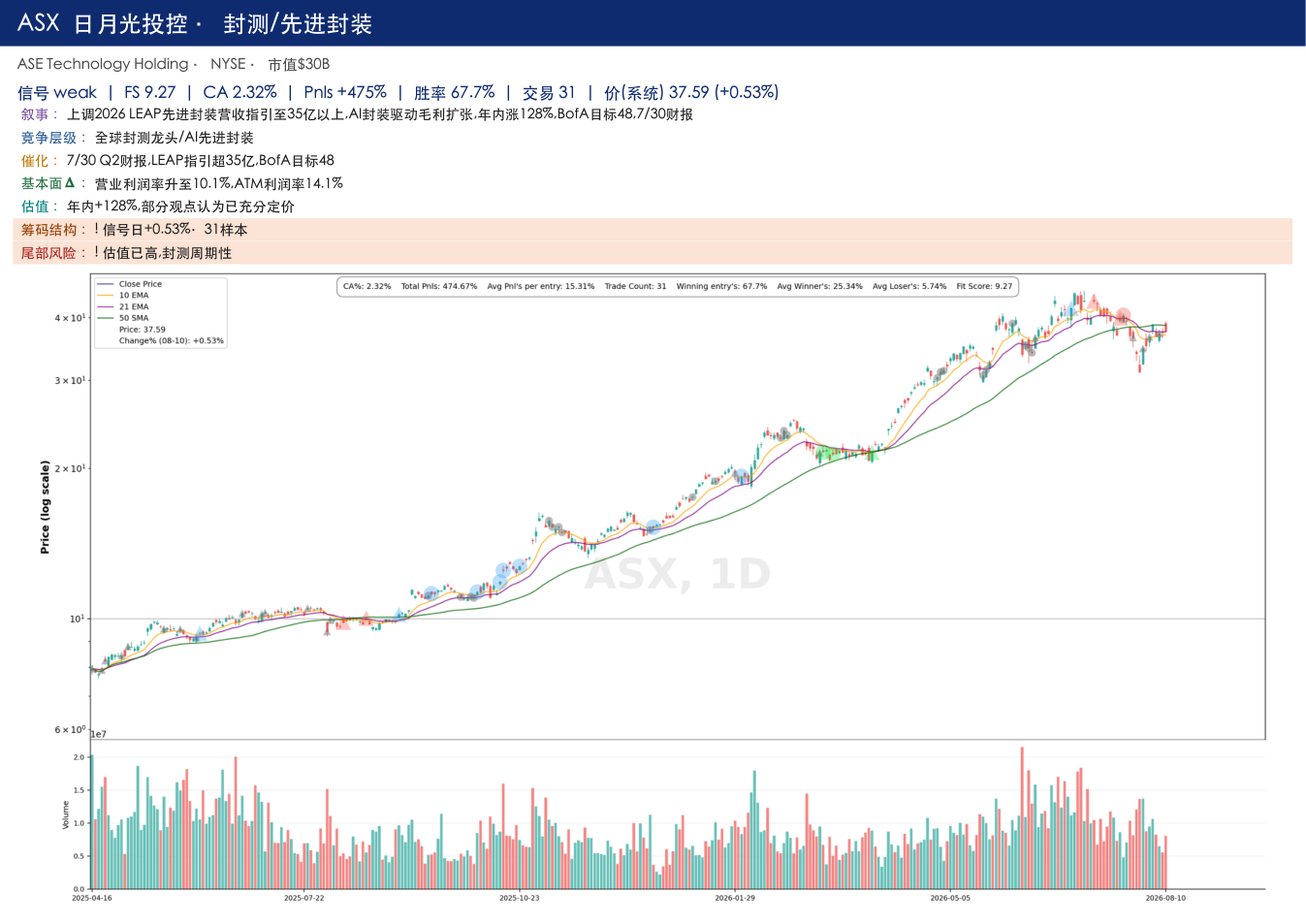
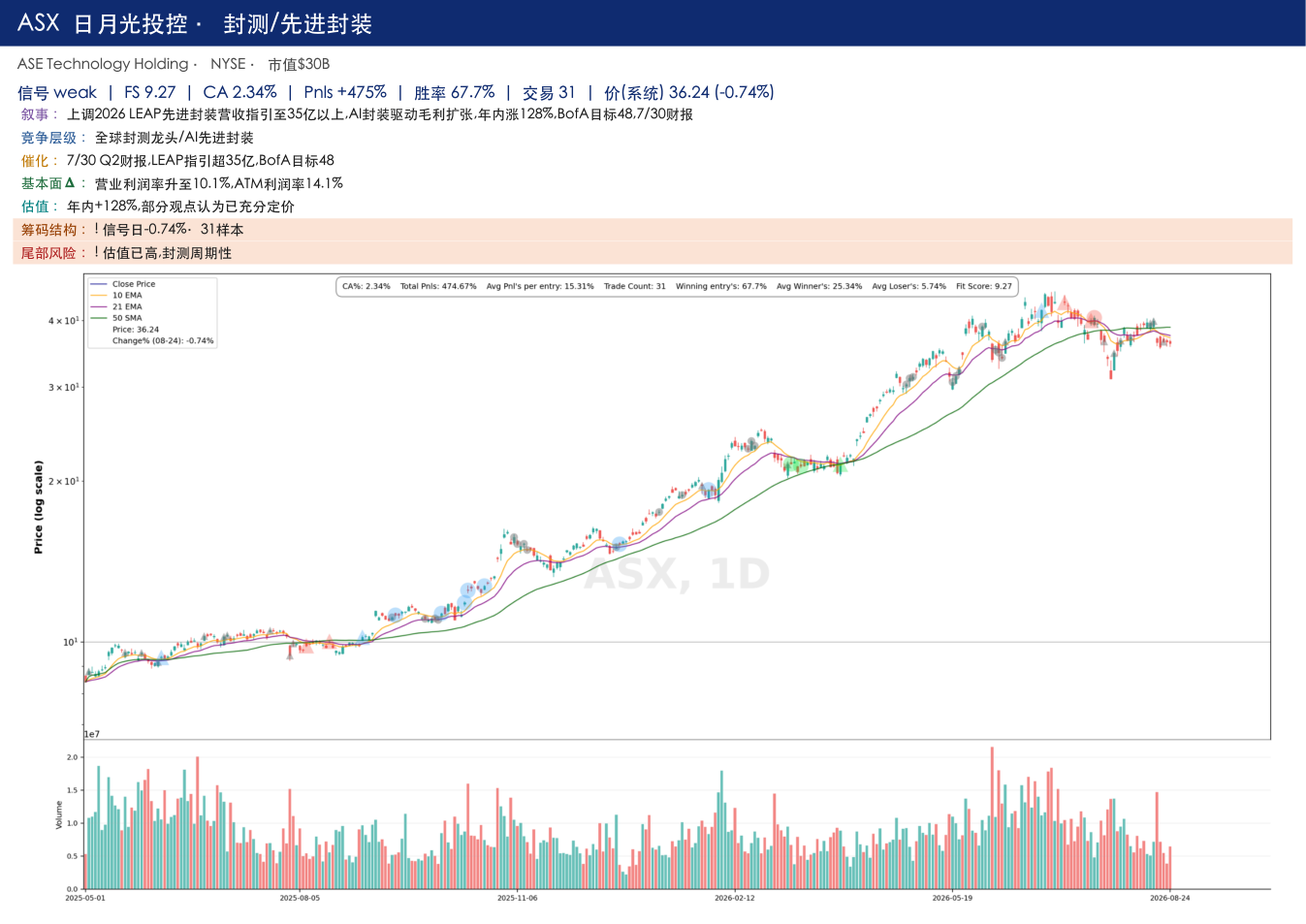
修复美股弱信号明细图

diff --git a/docs/bogo.html b/docs/bogo.html
@@ -61,59 +61,59 @@ a{color:inherit}
 信号日 08-21 · Fit 1.50 · 胜率 58.6% · CA 2.39% · Pnls +34% · 当日 -0.82% · <a href="https://www.tradingview.com/chart/?symbol=AMEX%3AURA" target="_blank">TV↗</a>
 主题ETF：<a href="etf.html#URA"><b>URA</b></a>（标的本身） 5日 +1.0% · 21日 +14.5% · 63日 -6.7% · 转强 / 近20日高</pre><img loading="lazy" src="bogo/URA.png"></div><div class="blk"><pre><b>NASDAQ:LITE</b> Lument · AI数据中心光器件·C
 信号日 08-20 · Fit 15.04 · 胜率 67.9% · CA 4.18% · Pnls +1602% · 当日 -4.22% · <a href="https://www.tradingview.com/chart/?symbol=NASDAQ%3ALITE" target="_blank">TV↗</a>
-主题ETF：<a href="etf.html#AIQ"><b>AIQ</b></a>（近似代理） 5日 -2.7% · 21日 +7.5% · 63日 -0.8% · 弱势 / 回撤中；<a href="etf.html#SMH"><b>SMH</b></a>（近似代理） 5日 -8.0% · 21日 -2.6% · 63日 -5.1% · 弱势 / 回撤中</pre></div><div class="blk"><pre><b>NASDAQ:UK100</b> 英国富时10 · 英国大盘·价值股·大宗
+主题ETF：<a href="etf.html#AIQ"><b>AIQ</b></a>（近似代理） 5日 -2.7% · 21日 +7.5% · 63日 -0.8% · 弱势 / 回撤中；<a href="etf.html#SMH"><b>SMH</b></a>（近似代理） 5日 -8.0% · 21日 -2.6% · 63日 -5.1% · 弱势 / 回撤中</pre><img loading="lazy" src="bogo/LITE.png"></div><div class="blk"><pre><b>NASDAQ:UK100</b> 英国富时10 · 英国大盘·价值股·大宗
 信号日 08-20 · Fit 6.33 · 胜率 80.4% · CA 0.54% · Pnls +75% · 当日 +0.44% · <a href="https://www.tradingview.com/chart/?symbol=NASDAQ%3AUK100" target="_blank">TV↗</a>
-主题ETF：<span class="etf-miss">未映射</span></pre></div><div class="blk"><pre><b>NASDAQ:HTI1!</b> 恒生科技指数 · 指数期货·港股科技be
+主题ETF：<span class="etf-miss">未映射</span></pre><img loading="lazy" src="bogo/UK100.png"></div><div class="blk"><pre><b>NASDAQ:HTI1!</b> 恒生科技指数 · 指数期货·港股科技be
 信号日 08-20 · Fit 1.41 · 胜率 44.4% · CA 1.37% · Pnls +40% · 当日 +0.35% · <a href="https://www.tradingview.com/chart/?symbol=NASDAQ%3AHTI1!" target="_blank">TV↗</a>
-主题ETF：<span class="etf-miss">未映射</span></pre></div><div class="blk"><pre><b>NYSE:DELL</b> 戴尔/Del · AI服务器·企业IT
+主题ETF：<span class="etf-miss">未映射</span></pre><img loading="lazy" src="bogo/HTI1!.png"></div><div class="blk"><pre><b>NYSE:DELL</b> 戴尔/Del · AI服务器·企业IT
 信号日 08-24 · Fit 19.92 · 胜率 86.4% · CA 2.74% · Pnls +318% · 当日 -2.01% · <a href="https://www.tradingview.com/chart/?symbol=NYSE%3ADELL" target="_blank">TV↗</a>
-主题ETF：<span class="etf-miss">未映射</span></pre></div><div class="blk"><pre><b>NASDAQ:FESB1!</b> 欧洲银行股期 · 欧洲银行
+主题ETF：<span class="etf-miss">未映射</span></pre><img loading="lazy" src="bogo/DELL.png"></div><div class="blk"><pre><b>NASDAQ:FESB1!</b> 欧洲银行股期 · 欧洲银行
 信号日 08-24 · Fit 6.77 · 胜率 75.0% · CA 1.12% · Pnls +148% · 当日 +0.67% · <a href="https://www.tradingview.com/chart/?symbol=NASDAQ%3AFESB1!" target="_blank">TV↗</a>
-主题ETF：<a href="etf.html#XLF"><b>XLF</b></a>（主题代理） 5日 +1.1% · 21日 +3.4% · 63日 +12.5% · 多头 / 近20日高；<a href="etf.html#KBE"><b>KBE</b></a>（主题代理） 5日 -3.2% · 21日 -0.8% · 63日 +8.8% · 弱势 / 回撤中</pre></div><div class="blk"><pre><b>NYSE:ATI</b> ATI特种合 · 航空航天特种材料·钛合
+主题ETF：<a href="etf.html#XLF"><b>XLF</b></a>（主题代理） 5日 +1.1% · 21日 +3.4% · 63日 +12.5% · 多头 / 近20日高；<a href="etf.html#KBE"><b>KBE</b></a>（主题代理） 5日 -3.2% · 21日 -0.8% · 63日 +8.8% · 弱势 / 回撤中</pre><img loading="lazy" src="bogo/FESB1!.png"></div><div class="blk"><pre><b>NYSE:ATI</b> ATI特种合 · 航空航天特种材料·钛合
 信号日 08-24 · Fit 3.01 · 胜率 63.6% · CA 1.85% · Pnls +153% · 当日 +1.35% · <a href="https://www.tradingview.com/chart/?symbol=NYSE%3AATI" target="_blank">TV↗</a>
-主题ETF：<a href="etf.html#JETS"><b>JETS</b></a>（主题代理） 5日 -3.8% · 21日 -1.4% · 63日 +9.4% · 弱势 / 回撤中；<a href="etf.html#ITA"><b>ITA</b></a>（主题代理） 5日 -7.1% · 21日 -2.8% · 63日 +3.6% · 弱势 / 回撤中</pre></div><div class="blk"><pre><b>NASDAQ:FESX1!</b> 欧洲斯托克5 · 欧股大盘·风险偏好
+主题ETF：<a href="etf.html#JETS"><b>JETS</b></a>（主题代理） 5日 -3.8% · 21日 -1.4% · 63日 +9.4% · 弱势 / 回撤中；<a href="etf.html#ITA"><b>ITA</b></a>（主题代理） 5日 -7.1% · 21日 -2.8% · 63日 +3.6% · 弱势 / 回撤中</pre><img loading="lazy" src="bogo/ATI.png"></div><div class="blk"><pre><b>NASDAQ:FESX1!</b> 欧洲斯托克5 · 欧股大盘·风险偏好
 信号日 08-24 · Fit 2.16 · 胜率 68.4% · CA 0.71% · Pnls +30% · 当日 -0.05% · <a href="https://www.tradingview.com/chart/?symbol=NASDAQ%3AFESX1!" target="_blank">TV↗</a>
-主题ETF：<span class="etf-miss">未映射</span></pre></div><div class="blk"><pre><b>NASDAQ:CIBR</b> 网络安全ET · 网络安全
+主题ETF：<span class="etf-miss">未映射</span></pre><img loading="lazy" src="bogo/FESX1!.png"></div><div class="blk"><pre><b>NASDAQ:CIBR</b> 网络安全ET · 网络安全
 信号日 08-24 · Fit 2.11 · 胜率 55.6% · CA 1.19% · Pnls +48% · 当日 -1.71% · <a href="https://www.tradingview.com/chart/?symbol=NASDAQ%3ACIBR" target="_blank">TV↗</a>
-主题ETF：<a href="etf.html#HACK"><b>HACK</b></a>（直接主题） 5日 -5.2% · 21日 +4.2% · 63日 +15.5% · 整理 / 回撤中</pre></div><div class="blk"><pre><b>NYSE:ALB</b> 雅保/Alb · 锂矿·特种化工
+主题ETF：<a href="etf.html#HACK"><b>HACK</b></a>（直接主题） 5日 -5.2% · 21日 +4.2% · 63日 +15.5% · 整理 / 回撤中</pre><img loading="lazy" src="bogo/CIBR.png"></div><div class="blk"><pre><b>NYSE:ALB</b> 雅保/Alb · 锂矿·特种化工
 信号日 08-21 · Fit 9.05 · 胜率 79.4% · CA 2.81% · Pnls +406% · 当日 -1.21% · <a href="https://www.tradingview.com/chart/?symbol=NYSE%3AALB" target="_blank">TV↗</a>
-主题ETF：<a href="etf.html#LIT"><b>LIT</b></a>（直接主题） 5日 +1.0% · 21日 +13.6% · 63日 -9.3% · 转强 / 近20日高</pre></div><div class="blk"><pre><b>NASDAQ:FTAI</b> FTAI航空 · 航空发动机MRO·租赁
+主题ETF：<a href="etf.html#LIT"><b>LIT</b></a>（直接主题） 5日 +1.0% · 21日 +13.6% · 63日 -9.3% · 转强 / 近20日高</pre><img loading="lazy" src="bogo/ALB.png"></div><div class="blk"><pre><b>NASDAQ:FTAI</b> FTAI航空 · 航空发动机MRO·租赁
 信号日 08-21 · Fit 5.53 · 胜率 67.9% · CA 2.80% · Pnls +275% · 当日 -5.38% · <a href="https://www.tradingview.com/chart/?symbol=NASDAQ%3AFTAI" target="_blank">TV↗</a>
-主题ETF：<a href="etf.html#JETS"><b>JETS</b></a>（主题代理） 5日 -3.8% · 21日 -1.4% · 63日 +9.4% · 弱势 / 回撤中；<a href="etf.html#ITA"><b>ITA</b></a>（主题代理） 5日 -7.1% · 21日 -2.8% · 63日 +3.6% · 弱势 / 回撤中</pre></div><div class="blk"><pre><b>NYSE:CAT</b> 卡特彼勒 · 工程机械·电力/数据中
+主题ETF：<a href="etf.html#JETS"><b>JETS</b></a>（主题代理） 5日 -3.8% · 21日 -1.4% · 63日 +9.4% · 弱势 / 回撤中；<a href="etf.html#ITA"><b>ITA</b></a>（主题代理） 5日 -7.1% · 21日 -2.8% · 63日 +3.6% · 弱势 / 回撤中</pre><img loading="lazy" src="bogo/FTAI.png"></div><div class="blk"><pre><b>NYSE:CAT</b> 卡特彼勒 · 工程机械·电力/数据中
 信号日 08-21 · Fit 5.22 · 胜率 60.7% · CA 1.68% · Pnls +206% · 当日 -2.04% · <a href="https://www.tradingview.com/chart/?symbol=NYSE%3ACAT" target="_blank">TV↗</a>
-主题ETF：<span class="etf-miss">未映射</span></pre></div><div class="blk"><pre><b>NASDAQ:TOPIX1!</b> 东证TOPI · 宏观·日股大盘(广基)
+主题ETF：<span class="etf-miss">未映射</span></pre><img loading="lazy" src="bogo/CAT.png"></div><div class="blk"><pre><b>NASDAQ:TOPIX1!</b> 东证TOPI · 宏观·日股大盘(广基)
 信号日 08-21 · Fit 4.68 · 胜率 70.5% · CA 0.94% · Pnls +131% · 当日 -0.07% · <a href="https://www.tradingview.com/chart/?symbol=NASDAQ%3ATOPIX1!" target="_blank">TV↗</a>
-主题ETF：<span class="etf-miss">未映射</span></pre></div><div class="blk"><pre><b>NASDAQ:KALU</b> 凯撒铝业 · 铝(加工)
+主题ETF：<span class="etf-miss">未映射</span></pre><img loading="lazy" src="bogo/TOPIX1!.png"></div><div class="blk"><pre><b>NASDAQ:KALU</b> 凯撒铝业 · 铝(加工)
 信号日 08-21 · Fit 4.37 · 胜率 63.6% · CA 2.19% · Pnls +240% · 当日 -1.08% · <a href="https://www.tradingview.com/chart/?symbol=NASDAQ%3AKALU" target="_blank">TV↗</a>
-主题ETF：<a href="etf.html#XME"><b>XME</b></a>（主题代理） 5日 -0.2% · 21日 +15.9% · 63日 +0.8% · 整理 / 近20日高；<a href="etf.html#PICK"><b>PICK</b></a>（主题代理） 5日 +4.5% · 21日 +13.5% · 63日 +4.5% · 多头 / 近20日高</pre></div><div class="blk"><pre><b>NASDAQ:HOOD</b> 罗宾汉 · 互联网券商/金融科技
+主题ETF：<a href="etf.html#XME"><b>XME</b></a>（主题代理） 5日 -0.2% · 21日 +15.9% · 63日 +0.8% · 整理 / 近20日高；<a href="etf.html#PICK"><b>PICK</b></a>（主题代理） 5日 +4.5% · 21日 +13.5% · 63日 +4.5% · 多头 / 近20日高</pre><img loading="lazy" src="bogo/KALU.png"></div><div class="blk"><pre><b>NASDAQ:HOOD</b> 罗宾汉 · 互联网券商/金融科技
 信号日 08-21 · Fit 3.52 · 胜率 70.6% · CA 3.25% · Pnls +325% · 当日 -4.17% · <a href="https://www.tradingview.com/chart/?symbol=NASDAQ%3AHOOD" target="_blank">TV↗</a>
-主题ETF：<a href="etf.html#FINX"><b>FINX</b></a>（主题代理） 5日 +4.1% · 21日 +9.5% · 63日 +10.7% · 转强 / 近20日高；<a href="etf.html#XLF"><b>XLF</b></a>（主题代理） 5日 +1.1% · 21日 +3.4% · 63日 +12.5% · 多头 / 近20日高</pre></div><div class="blk"><pre><b>NYSE:EFXT</b> 恩纳弗莱克斯 · 天然气基础设施/压缩设
+主题ETF：<a href="etf.html#FINX"><b>FINX</b></a>（主题代理） 5日 +4.1% · 21日 +9.5% · 63日 +10.7% · 转强 / 近20日高；<a href="etf.html#XLF"><b>XLF</b></a>（主题代理） 5日 +1.1% · 21日 +3.4% · 63日 +12.5% · 多头 / 近20日高</pre><img loading="lazy" src="bogo/HOOD.png"></div><div class="blk"><pre><b>NYSE:EFXT</b> 恩纳弗莱克斯 · 天然气基础设施/压缩设
 信号日 08-21 · Fit 3.43 · 胜率 55.2% · CA 1.96% · Pnls +237% · 当日 -3.05% · <a href="https://www.tradingview.com/chart/?symbol=NYSE%3AEFXT" target="_blank">TV↗</a>
-主题ETF：<a href="etf.html#UNG"><b>UNG</b></a>（主题代理） 5日 +3.3% · 21日 -3.8% · 63日 -7.2% · 转强 / 近20日高；<a href="etf.html#XLE"><b>XLE</b></a>（主题代理） 5日 +0.8% · 21日 +5.9% · 63日 +6.9% · 多头 / 近20日高</pre></div><div class="blk"><pre><b>AMEX:IGV</b> 软件科技ET · 软件·云·SaaS·数
+主题ETF：<a href="etf.html#UNG"><b>UNG</b></a>（主题代理） 5日 +3.3% · 21日 -3.8% · 63日 -7.2% · 转强 / 近20日高；<a href="etf.html#XLE"><b>XLE</b></a>（主题代理） 5日 +0.8% · 21日 +5.9% · 63日 +6.9% · 多头 / 近20日高</pre><img loading="lazy" src="bogo/EFXT.png"></div><div class="blk"><pre><b>AMEX:IGV</b> 软件科技ET · 软件·云·SaaS·数
 信号日 08-21 · Fit 3.02 · 胜率 53.3% · CA 1.31% · Pnls +70% · 当日 -0.89% · <a href="https://www.tradingview.com/chart/?symbol=AMEX%3AIGV" target="_blank">TV↗</a>
-主题ETF：<a href="etf.html#IGV"><b>IGV</b></a>（标的本身） 5日 +0.5% · 21日 +16.4% · 63日 +9.0% · 多头 / 回撤中</pre></div><div class="blk"><pre><b>NASDAQ:CENX</b> 世纪铝业 · 铝
+主题ETF：<a href="etf.html#IGV"><b>IGV</b></a>（标的本身） 5日 +0.5% · 21日 +16.4% · 63日 +9.0% · 多头 / 回撤中</pre><img loading="lazy" src="bogo/IGV.png"></div><div class="blk"><pre><b>NASDAQ:CENX</b> 世纪铝业 · 铝
 信号日 08-21 · Fit 2.90 · 胜率 56.1% · CA 2.94% · Pnls +290% · 当日 -0.59% · <a href="https://www.tradingview.com/chart/?symbol=NASDAQ%3ACENX" target="_blank">TV↗</a>
-主题ETF：<a href="etf.html#XME"><b>XME</b></a>（主题代理） 5日 -0.2% · 21日 +15.9% · 63日 +0.8% · 整理 / 近20日高；<a href="etf.html#PICK"><b>PICK</b></a>（主题代理） 5日 +4.5% · 21日 +13.5% · 63日 +4.5% · 多头 / 近20日高</pre></div><div class="blk"><pre><b>NASDAQ:AVGO</b> 博通/Bro · AI ASIC/网络芯
+主题ETF：<a href="etf.html#XME"><b>XME</b></a>（主题代理） 5日 -0.2% · 21日 +15.9% · 63日 +0.8% · 整理 / 近20日高；<a href="etf.html#PICK"><b>PICK</b></a>（主题代理） 5日 +4.5% · 21日 +13.5% · 63日 +4.5% · 多头 / 近20日高</pre><img loading="lazy" src="bogo/CENX.png"></div><div class="blk"><pre><b>NASDAQ:AVGO</b> 博通/Bro · AI ASIC/网络芯
 信号日 08-21 · Fit 2.00 · 胜率 51.6% · CA 2.06% · Pnls +95% · 当日 -2.63% · <a href="https://www.tradingview.com/chart/?symbol=NASDAQ%3AAVGO" target="_blank">TV↗</a>
-主题ETF：<a href="etf.html#SMH"><b>SMH</b></a>（主题代理） 5日 -8.0% · 21日 -2.6% · 63日 -5.1% · 弱势 / 回撤中；<a href="etf.html#AIQ"><b>AIQ</b></a>（主题代理） 5日 -2.7% · 21日 +7.5% · 63日 -0.8% · 弱势 / 回撤中</pre></div><div class="blk"><pre><b>NYSE:TSM</b> 台积电/TS · 晶圆代工·AI核心
+主题ETF：<a href="etf.html#SMH"><b>SMH</b></a>（主题代理） 5日 -8.0% · 21日 -2.6% · 63日 -5.1% · 弱势 / 回撤中；<a href="etf.html#AIQ"><b>AIQ</b></a>（主题代理） 5日 -2.7% · 21日 +7.5% · 63日 -0.8% · 弱势 / 回撤中</pre><img loading="lazy" src="bogo/AVGO.png"></div><div class="blk"><pre><b>NYSE:TSM</b> 台积电/TS · 晶圆代工·AI核心
 信号日 08-21 · Fit 1.99 · 胜率 50.0% · CA 1.84% · Pnls +105% · 当日 -2.11% · <a href="https://www.tradingview.com/chart/?symbol=NYSE%3ATSM" target="_blank">TV↗</a>
-主题ETF：<a href="etf.html#SMH"><b>SMH</b></a>（主题代理） 5日 -8.0% · 21日 -2.6% · 63日 -5.1% · 弱势 / 回撤中；<a href="etf.html#AIQ"><b>AIQ</b></a>（主题代理） 5日 -2.7% · 21日 +7.5% · 63日 -0.8% · 弱势 / 回撤中</pre></div><div class="blk"><pre><b>NASDAQ:AAOI</b> 应用光电 · AI光模块·800G/
+主题ETF：<a href="etf.html#SMH"><b>SMH</b></a>（主题代理） 5日 -8.0% · 21日 -2.6% · 63日 -5.1% · 弱势 / 回撤中；<a href="etf.html#AIQ"><b>AIQ</b></a>（主题代理） 5日 -2.7% · 21日 +7.5% · 63日 -0.8% · 弱势 / 回撤中</pre><img loading="lazy" src="bogo/TSM.png"></div><div class="blk"><pre><b>NASDAQ:AAOI</b> 应用光电 · AI光模块·800G/
 信号日 08-20 · Fit 14.62 · 胜率 71.4% · CA 6.36% · Pnls +2131% · 当日 -13.77% · <a href="https://www.tradingview.com/chart/?symbol=NASDAQ%3AAAOI" target="_blank">TV↗</a>
-主题ETF：<a href="etf.html#AIQ"><b>AIQ</b></a>（近似代理） 5日 -2.7% · 21日 +7.5% · 63日 -0.8% · 弱势 / 回撤中；<a href="etf.html#SMH"><b>SMH</b></a>（近似代理） 5日 -8.0% · 21日 -2.6% · 63日 -5.1% · 弱势 / 回撤中</pre></div><div class="blk"><pre><b>AMEX:EWY</b> 韩国ETF · 韩股β·半导体权重(三
+主题ETF：<a href="etf.html#AIQ"><b>AIQ</b></a>（近似代理） 5日 -2.7% · 21日 +7.5% · 63日 -0.8% · 弱势 / 回撤中；<a href="etf.html#SMH"><b>SMH</b></a>（近似代理） 5日 -8.0% · 21日 -2.6% · 63日 -5.1% · 弱势 / 回撤中</pre><img loading="lazy" src="bogo/AAOI.png"></div><div class="blk"><pre><b>AMEX:EWY</b> 韩国ETF · 韩股β·半导体权重(三
 信号日 08-20 · Fit 12.30 · 胜率 63.3% · CA 2.24% · Pnls +309% · 当日 -2.64% · <a href="https://www.tradingview.com/chart/?symbol=AMEX%3AEWY" target="_blank">TV↗</a>
-主题ETF：<a href="etf.html#SMH"><b>SMH</b></a>（主题代理） 5日 -8.0% · 21日 -2.6% · 63日 -5.1% · 弱势 / 回撤中；<a href="etf.html#AIQ"><b>AIQ</b></a>（主题代理） 5日 -2.7% · 21日 +7.5% · 63日 -0.8% · 弱势 / 回撤中</pre></div><div class="blk"><pre><b>NYSE:ASX</b> 日月光投控 · 封测/先进封装
+主题ETF：<a href="etf.html#SMH"><b>SMH</b></a>（主题代理） 5日 -8.0% · 21日 -2.6% · 63日 -5.1% · 弱势 / 回撤中；<a href="etf.html#AIQ"><b>AIQ</b></a>（主题代理） 5日 -2.7% · 21日 +7.5% · 63日 -0.8% · 弱势 / 回撤中</pre><img loading="lazy" src="bogo/EWY.png"></div><div class="blk"><pre><b>NYSE:ASX</b> 日月光投控 · 封测/先进封装
 信号日 08-20 · Fit 9.27 · 胜率 67.7% · CA 2.34% · Pnls +475% · 当日 -0.74% · <a href="https://www.tradingview.com/chart/?symbol=NYSE%3AASX" target="_blank">TV↗</a>
-主题ETF：<span class="etf-miss">未映射</span></pre></div><div class="blk"><pre><b>NYSE:ERO</b> 埃罗铜业 · 铜矿·巴西
+主题ETF：<span class="etf-miss">未映射</span></pre><img loading="lazy" src="bogo/ASX.png"></div><div class="blk"><pre><b>NYSE:ERO</b> 埃罗铜业 · 铜矿·巴西
 信号日 08-20 · Fit 8.59 · 胜率 70.4% · CA 2.84% · Pnls +320% · 当日 -2.21% · <a href="https://www.tradingview.com/chart/?symbol=NYSE%3AERO" target="_blank">TV↗</a>
-主题ETF：<a href="etf.html#COPX"><b>COPX</b></a>（直接主题） 5日 +8.2% · 21日 +21.6% · 63日 +13.8% · 多头 / 近20日高；<a href="etf.html#XME"><b>XME</b></a>（直接主题） 5日 -0.2% · 21日 +15.9% · 63日 +0.8% · 整理 / 近20日高</pre></div><div class="blk"><pre><b>NASDAQ:SIMO</b> 慧荣科技 · 存储主控/AI存储
+主题ETF：<a href="etf.html#COPX"><b>COPX</b></a>（直接主题） 5日 +8.2% · 21日 +21.6% · 63日 +13.8% · 多头 / 近20日高；<a href="etf.html#XME"><b>XME</b></a>（直接主题） 5日 -0.2% · 21日 +15.9% · 63日 +0.8% · 整理 / 近20日高</pre><img loading="lazy" src="bogo/ERO.png"></div><div class="blk"><pre><b>NASDAQ:SIMO</b> 慧荣科技 · 存储主控/AI存储
 信号日 08-20 · Fit 5.71 · 胜率 67.4% · CA 2.98% · Pnls +554% · 当日 -5.88% · <a href="https://www.tradingview.com/chart/?symbol=NASDAQ%3ASIMO" target="_blank">TV↗</a>
-主题ETF：<span class="etf-miss">未映射</span></pre></div><div class="blk"><pre><b>NYSE:PAAS</b> 泛美白银 · 白银/黄金
+主题ETF：<span class="etf-miss">未映射</span></pre><img loading="lazy" src="bogo/SIMO.png"></div><div class="blk"><pre><b>NYSE:PAAS</b> 泛美白银 · 白银/黄金
 信号日 08-20 · Fit 3.80 · 胜率 65.1% · CA 2.56% · Pnls +258% · 当日 +1.41% · <a href="https://www.tradingview.com/chart/?symbol=NYSE%3APAAS" target="_blank">TV↗</a>
-主题ETF：<a href="etf.html#SIL"><b>SIL</b></a>（直接主题） 5日 +10.6% · 21日 +33.0% · 63日 +14.1% · 转强 / 近20日高；<a href="etf.html#SLV"><b>SLV</b></a>（直接主题） 5日 +4.4% · 21日 +18.3% · 63日 -9.0% · 转强 / 近20日高</pre></div><div class="blk"><pre><b>NASDAQ:NK2251!</b> 日经225期 · 宏观·日股大盘
+主题ETF：<a href="etf.html#SIL"><b>SIL</b></a>（直接主题） 5日 +10.6% · 21日 +33.0% · 63日 +14.1% · 转强 / 近20日高；<a href="etf.html#SLV"><b>SLV</b></a>（直接主题） 5日 +4.4% · 21日 +18.3% · 63日 -9.0% · 转强 / 近20日高</pre><img loading="lazy" src="bogo/PAAS.png"></div><div class="blk"><pre><b>NASDAQ:NK2251!</b> 日经225期 · 宏观·日股大盘
 信号日 08-20 · Fit 3.36 · 胜率 64.9% · CA 1.26% · Pnls +116% · 当日 -0.14% · <a href="https://www.tradingview.com/chart/?symbol=NASDAQ%3ANK2251!" target="_blank">TV↗</a>
-主题ETF：<span class="etf-miss">未映射</span></pre></div><div class="blk"><pre><b>NYSE:MP</b> MP材料 · 稀土/磁材
+主题ETF：<span class="etf-miss">未映射</span></pre><img loading="lazy" src="bogo/NK2251!.png"></div><div class="blk"><pre><b>NYSE:MP</b> MP材料 · 稀土/磁材
 信号日 08-20 · Fit 3.29 · 胜率 66.7% · CA 3.88% · Pnls +126% · 当日 -4.38% · <a href="https://www.tradingview.com/chart/?symbol=NYSE%3AMP" target="_blank">TV↗</a>
-主题ETF：<a href="etf.html#REMX"><b>REMX</b></a>（直接主题） 5日 +1.0% · 21日 +18.1% · 63日 -17.6% · 转强 / 近20日高</pre></div></div></div><div class="panel" id="p-1050"><div class="sec"><h1>A股早盘 · 10:50批</h1><div class="sub"><span style="color:#888">今日批次未到时间，以下为 08-24 批</span> · 波哥系统七维信号汇总 · A股早盘 08-24(10:50批·信号最新08-24) · 全清单23只(强6→弱17·新日期在前·同日Fit降 · 来源 0824 ch 1050 bo sig.pdf · 共 23 只（强 6） · 主题ETF数据 2026-08-24</div><div class="table-wrap"><table><tr><th class="l">信号</th><th class="l">代码</th><th class="l">名称</th><th class="l">信号日</th><th>当日%</th><th>Fit</th><th>胜率</th><th>CA%</th><th>Pnls%</th><th class="l">主题ETF表现</th><th class="l">主题</th></tr><tr class="s"><td class="l"><span class="tag st">strong</span></td><td class="l"><b>603667</b></td><td class="l">五洲新春</td><td class="l"><span class="old">08-21</span></td><td>-0.15</td><td class="fitg">6.82</td><td>67.6</td><td>2.94</td><td>+635</td><td class="l etf-cell"><span class="etf-miss">未映射</span></td><td class="l" style="white-space:normal">轴承·滚珠丝杠·人形机</td></tr><tr class="s"><td class="l"><span class="tag st">strong</span></td><td class="l"><b>605117</b></td><td class="l">德业股份</td><td class="l"><span class="old">08-21</span></td><td>-1.53</td><td class="fitg">5.05</td><td>63.4</td><td>2.30</td><td>+367</td><td class="l etf-cell"><span class="etf-miss">未映射</span></td><td class="l" style="white-space:normal">户用/工商储逆变器+储</td></tr><tr class="s"><td class="l"><span class="tag st">strong</span></td><td class="l"><b>688717</b></td><td class="l">艾罗能源</td><td class="l"><span class="old">08-21</span></td><td>-3.08</td><td>0.96</td><td>60.0</td><td>3.08</td><td>-1</td><td class="l etf-cell"><span class="etf-miss">未映射</span></td><td class="l" style="white-space:normal">户用储能/工商储/并网</td></tr><tr class="s"><td class="l"><span class="tag st">strong</span></td><td class="l"><b>002443</b></td><td class="l">金洲管道</td><td class="l"><span class="old">08-20</span></td><td>+0.86</td><td class="fitg">5.50</td><td>69.4</td><td>1.89</td><td>+232</td><td class="l etf-cell"><a href="etf.html#IEO"><b>IEO</b></a><small>5日 +2.1% · 21日 +8.8% · 63日 +14.1% · 主题代理 · 多头 / 近20日高</small><br><a href="etf.html#XLE"><b>XLE</b></a><small>5日 +0.8% · 21日 +5.9% · 63日 +6.9% · 主题代理 · 多头 / 近20日高</small></td><td class="l" style="white-space:normal">焊接钢管·油气输送/镀</td></tr><tr class="s"><td class="l"><span class="tag st">strong</span></td><td class="l"><b>HTI1!</b></td><td class="l">恒生科技指数</td><td class="l"><span class="old">08-20</span></td><td>-3.61</td><td>1.41</td><td>44.4</td><td>1.37</td><td>+40</td><td class="l etf-cell"><span class="etf-miss">未映射</span></td><td class="l" style="white-space:normal">指数期货·港股科技be</td></tr><tr class="s"><td class="l"><span class="tag st">strong</span></td><td class="l"><b>CN1!</b></td><td class="l">富时中国A5</td><td class="l"><span class="old">08-20</span></td><td>-1.05</td><td>1.04</td><td>53.1</td><td>0.83</td><td>+2</td><td class="l etf-cell"><span class="etf-miss">未映射</span></td><td class="l" style="white-space:normal">指数期货·A50核心资</td></tr><tr class="hot"><td class="l"><span class="tag wk">weak</span></td><td class="l"><b>002837</b></td><td class="l">英维克</td><td class="l"><span class="tag new">08-24 新</span></td><td>+0.52</td><td>3.10</td><td>65.5</td><td>3.46</td><td>+157</td><td class="l etf-cell"><span class="etf-miss">未映射</span></td><td class="l" style="white-space:normal">数据中心温控·液冷·A</td></tr><tr><td class="l"><span class="tag wk">weak</span></td><td class="l"><b>600522</b></td><td class="l">中天科技</td><td class="l"><span class="old">08-21</span></td><td>-2.15</td><td class="fitg">19.35</td><td>76.2</td><td>2.66</td><td>+357</td><td class="l etf-cell"><span class="etf-miss">未映射</span></td><td class="l" style="white-space:normal">光缆·海缆·电力传输·</td></tr><tr><td class="l"><span class="tag wk">weak</span></td><td class="l"><b>688480</b></td><td class="l">赛恩斯</td><td class="l"><span class="old">08-21</span></td><td>-3.98</td><td class="fitg">18.09</td><td>72.7</td><td>3.14</td><td>+677</td><td class="l etf-cell"><span class="etf-miss">未映射</span></td><td class="l" style="white-space:normal">有色冶炼环保/重金属污</td></tr><tr><td class="l"><span class="tag wk">weak</span></td><td class="l"><b>000657</b></td><td class="l">中钨高新</td><td class="l"><span class="old">08-21</span></td><td>-1.95</td><td class="fitg">10.22</td><td>57.1</td><td>3.51</td><td>+852</td><td class="l etf-cell"><span class="etf-miss">未映射</span></td><td class="l" style="white-space:normal">硬质合金·钨深加工·刀</td></tr><tr><td class="l"><span class="tag wk">weak</span></td><td class="l"><b>603306</b></td><td class="l">华懋科技</td><td class="l"><span class="old">08-21</span></td><td>-1.63</td><td class="fitg">8.30</td><td>75.8</td><td>3.00</td><td>+342</td><td class="l etf-cell"><span class="etf-miss">未映射</span></td><td class="l" style="white-space:normal">汽车安全气囊布/丝+新</td></tr><tr><td class="l"><span class="tag wk">weak</span></td><td class="l"><b>002487</b></td><td class="l">大金重工</td><td class="l"><span class="old">08-21</span></td><td>-8.32</td><td class="fitg">7.96</td><td>57.1</td><td>2.30</td><td>+466</td><td class="l etf-cell"><span class="etf-miss">未映射</span></td><td class="l" style="white-space:normal">风电塔筒·海工出海</td></tr><tr><td class="l"><span class="tag wk">weak</span></td><td class="l"><b>603083</b></td><td class="l">剑桥科技</td><td class="l"><span class="old">08-21</span></td><td>-2.69</td><td class="fitg">5.36</td><td>61.3</td><td>3.88</td><td>+437</td><td class="l etf-cell"><a href="etf.html#AIQ"><b>AIQ</b></a><small>5日 -2.7% · 21日 +7.5% · 63日 -0.8% · 近似代理 · 弱势 / 回撤中</small><br><a href="etf.html#SMH"><b>SMH</b></a><small>5日 -8.0% · 21日 -2.6% · 63日 -5.1% · 近似代理 · 弱势 / 回撤中</small></td><td class="l" style="white-space:normal">光模块/AEC·800</td></tr><tr><td class="l"><span class="tag wk">weak</span></td><td class="l"><b>688027</b></td><td class="l">国盾量子</td><td class="l"><span class="old">08-21</span></td><td>-3.64</td><td class="fitg">5.00</td><td>58.6</td><td>2.64</td><td>+403</td><td class="l etf-cell"><a href="etf.html#QTUM"><b>QTUM</b></a><small>5日 -7.1% · 21日 +5.3% · 63日 -4.1% · 直接主题 · 弱势 / 回撤中</small></td><td class="l" style="white-space:normal">量子通信·量子计算·量</td></tr><tr><td class="l"><span class="tag wk">weak</span></td><td class="l"><b>600183</b></td><td class="l">生益科技</td><td class="l"><span class="old">08-21</span></td><td>-5.52</td><td class="fitg">4.54</td><td>66.7</td><td>3.25</td><td>+202</td><td class="l etf-cell"><span class="etf-miss">未映射</span></td><td class="l" style="white-space:normal">覆铜板(CCL)全球龙</td></tr><tr><td class="l"><span class="tag wk">weak</span></td><td class="l"><b>603026</b></td><td class="l">胜华新材</td><td class="l"><span class="old">08-21</span></td><td>-2.10</td><td class="fitg">4.09</td><td>46.2</td><td>2.58</td><td>+248</td><td class="l etf-cell"><a href="etf.html#LIT"><b>LIT</b></a><small>5日 +1.0% · 21日 +13.6% · 63日 -9.3% · 直接主题 · 转强 / 近20日高</small></td><td class="l" style="white-space:normal">锂电材料·电解液溶剂(</td></tr><tr><td class="l"><span class="tag wk">weak</span></td><td class="l"><b>002709</b></td><td class="l">天赐材料</td><td class="l"><span class="old">08-21</span></td><td>-0.34</td><td>3.69</td><td>61.9</td><td>2.58</td><td>+187</td><td class="l etf-cell"><a href="etf.html#LIT"><b>LIT</b></a><small>5日 +1.0% · 21日 +13.6% · 63日 -9.3% · 直接主题 · 转强 / 近20日高</small></td><td class="l" style="white-space:normal">电解液·六氟磷酸锂·锂</td></tr><tr><td class="l"><span class="tag wk">weak</span></td><td class="l"><b>300502</b></td><td class="l">新易盛</td><td class="l"><span class="old">08-21</span></td><td>-6.87</td><td>3.59</td><td>58.8</td><td>3.79</td><td>+336</td><td class="l etf-cell"><a href="etf.html#AIQ"><b>AIQ</b></a><small>5日 -2.7% · 21日 +7.5% · 63日 -0.8% · 近似代理 · 弱势 / 回撤中</small><br><a href="etf.html#SMH"><b>SMH</b></a><small>5日 -8.0% · 21日 -2.6% · 63日 -5.1% · 近似代理 · 弱势 / 回撤中</small></td><td class="l" style="white-space:normal">光模块龙头·800G/</td></tr><tr><td class="l"><span class="tag wk">weak</span></td><td class="l"><b>002156</b></td><td class="l">通富微电</td><td class="l"><span class="old">08-21</span></td><td>-4.34</td><td>1.54</td><td>46.9</td><td>2.82</td><td>+66</td><td class="l etf-cell"><a href="etf.html#SMH"><b>SMH</b></a><small>5日 -8.0% · 21日 -2.6% · 63日 -5.1% · 主题代理 · 弱势 / 回撤中</small><br><a href="etf.html#AIQ"><b>AIQ</b></a><small>5日 -2.7% · 21日 +7.5% · 63日 -0.8% · 主题代理 · 弱势 / 回撤中</small></td><td class="l" style="white-space:normal">半导体封测·AMD/先</td></tr><tr><td class="l"><span class="tag wk">weak</span></td><td class="l"><b>002428</b></td><td class="l">云南锗业</td><td class="l"><span class="old">08-20</span></td><td>-5.59</td><td class="fitg">17.78</td><td>75.0</td><td>3.52</td><td>+1087</td><td class="l etf-cell"><span class="etf-miss">未映射</span></td><td class="l" style="white-space:normal">锗金属·磷化铟衬底·化</td></tr><tr><td class="l"><span class="tag wk">weak</span></td><td class="l"><b>603738</b></td><td class="l">泰晶科技</td><td class="l"><span class="old">08-20</span></td><td>-4.98</td><td class="fitg">6.62</td><td>54.2</td><td>2.69</td><td>+278</td><td class="l etf-cell"><span class="etf-miss">未映射</span></td><td class="l" style="white-space:normal">石英晶振·频率器件·被</td></tr><tr><td class="l"><span class="tag wk">weak</span></td><td class="l"><b>688313</b></td><td class="l">仕佳光子</td><td class="l"><span class="old">08-20</span></td><td>-3.13</td><td class="fitg">6.08</td><td>55.2</td><td>4.47</td><td>+464</td><td class="l etf-cell"><span class="etf-miss">未映射</span></td><td class="l" style="white-space:normal">光芯片·AWG·AI数</td></tr><tr><td class="l"><span class="tag wk">weak</span></td><td class="l"><b>300620</b></td><td class="l">光库科技</td><td class="l"><span class="old">08-20</span></td><td>-2.56</td><td class="fitg">5.22</td><td>54.5</td><td>4.08</td><td>+521</td><td class="l etf-cell"><span class="etf-miss">未映射</span></td><td class="l" style="white-space:normal">光纤器件+铌酸锂调制器</td></tr></table></div><h1 style="margin-top:14px;font-size:14px">全清单 · 明细图 强+弱（23）</h1><div class="blk"><pre><b>NASDAQ:603667</b> 五洲新春 · 轴承·滚珠丝杠·人形机
+主题ETF：<a href="etf.html#REMX"><b>REMX</b></a>（直接主题） 5日 +1.0% · 21日 +18.1% · 63日 -17.6% · 转强 / 近20日高</pre><img loading="lazy" src="bogo/MP.png"></div></div></div><div class="panel" id="p-1050"><div class="sec"><h1>A股早盘 · 10:50批</h1><div class="sub"><span style="color:#888">今日批次未到时间，以下为 08-24 批</span> · 波哥系统七维信号汇总 · A股早盘 08-24(10:50批·信号最新08-24) · 全清单23只(强6→弱17·新日期在前·同日Fit降 · 来源 0824 ch 1050 bo sig.pdf · 共 23 只（强 6） · 主题ETF数据 2026-08-24</div><div class="table-wrap"><table><tr><th class="l">信号</th><th class="l">代码</th><th class="l">名称</th><th class="l">信号日</th><th>当日%</th><th>Fit</th><th>胜率</th><th>CA%</th><th>Pnls%</th><th class="l">主题ETF表现</th><th class="l">主题</th></tr><tr class="s"><td class="l"><span class="tag st">strong</span></td><td class="l"><b>603667</b></td><td class="l">五洲新春</td><td class="l"><span class="old">08-21</span></td><td>-0.15</td><td class="fitg">6.82</td><td>67.6</td><td>2.94</td><td>+635</td><td class="l etf-cell"><span class="etf-miss">未映射</span></td><td class="l" style="white-space:normal">轴承·滚珠丝杠·人形机</td></tr><tr class="s"><td class="l"><span class="tag st">strong</span></td><td class="l"><b>605117</b></td><td class="l">德业股份</td><td class="l"><span class="old">08-21</span></td><td>-1.53</td><td class="fitg">5.05</td><td>63.4</td><td>2.30</td><td>+367</td><td class="l etf-cell"><span class="etf-miss">未映射</span></td><td class="l" style="white-space:normal">户用/工商储逆变器+储</td></tr><tr class="s"><td class="l"><span class="tag st">strong</span></td><td class="l"><b>688717</b></td><td class="l">艾罗能源</td><td class="l"><span class="old">08-21</span></td><td>-3.08</td><td>0.96</td><td>60.0</td><td>3.08</td><td>-1</td><td class="l etf-cell"><span class="etf-miss">未映射</span></td><td class="l" style="white-space:normal">户用储能/工商储/并网</td></tr><tr class="s"><td class="l"><span class="tag st">strong</span></td><td class="l"><b>002443</b></td><td class="l">金洲管道</td><td class="l"><span class="old">08-20</span></td><td>+0.86</td><td class="fitg">5.50</td><td>69.4</td><td>1.89</td><td>+232</td><td class="l etf-cell"><a href="etf.html#IEO"><b>IEO</b></a><small>5日 +2.1% · 21日 +8.8% · 63日 +14.1% · 主题代理 · 多头 / 近20日高</small><br><a href="etf.html#XLE"><b>XLE</b></a><small>5日 +0.8% · 21日 +5.9% · 63日 +6.9% · 主题代理 · 多头 / 近20日高</small></td><td class="l" style="white-space:normal">焊接钢管·油气输送/镀</td></tr><tr class="s"><td class="l"><span class="tag st">strong</span></td><td class="l"><b>HTI1!</b></td><td class="l">恒生科技指数</td><td class="l"><span class="old">08-20</span></td><td>-3.61</td><td>1.41</td><td>44.4</td><td>1.37</td><td>+40</td><td class="l etf-cell"><span class="etf-miss">未映射</span></td><td class="l" style="white-space:normal">指数期货·港股科技be</td></tr><tr class="s"><td class="l"><span class="tag st">strong</span></td><td class="l"><b>CN1!</b></td><td class="l">富时中国A5</td><td class="l"><span class="old">08-20</span></td><td>-1.05</td><td>1.04</td><td>53.1</td><td>0.83</td><td>+2</td><td class="l etf-cell"><span class="etf-miss">未映射</span></td><td class="l" style="white-space:normal">指数期货·A50核心资</td></tr><tr class="hot"><td class="l"><span class="tag wk">weak</span></td><td class="l"><b>002837</b></td><td class="l">英维克</td><td class="l"><span class="tag new">08-24 新</span></td><td>+0.52</td><td>3.10</td><td>65.5</td><td>3.46</td><td>+157</td><td class="l etf-cell"><span class="etf-miss">未映射</span></td><td class="l" style="white-space:normal">数据中心温控·液冷·A</td></tr><tr><td class="l"><span class="tag wk">weak</span></td><td class="l"><b>600522</b></td><td class="l">中天科技</td><td class="l"><span class="old">08-21</span></td><td>-2.15</td><td class="fitg">19.35</td><td>76.2</td><td>2.66</td><td>+357</td><td class="l etf-cell"><span class="etf-miss">未映射</span></td><td class="l" style="white-space:normal">光缆·海缆·电力传输·</td></tr><tr><td class="l"><span class="tag wk">weak</span></td><td class="l"><b>688480</b></td><td class="l">赛恩斯</td><td class="l"><span class="old">08-21</span></td><td>-3.98</td><td class="fitg">18.09</td><td>72.7</td><td>3.14</td><td>+677</td><td class="l etf-cell"><span class="etf-miss">未映射</span></td><td class="l" style="white-space:normal">有色冶炼环保/重金属污</td></tr><tr><td class="l"><span class="tag wk">weak</span></td><td class="l"><b>000657</b></td><td class="l">中钨高新</td><td class="l"><span class="old">08-21</span></td><td>-1.95</td><td class="fitg">10.22</td><td>57.1</td><td>3.51</td><td>+852</td><td class="l etf-cell"><span class="etf-miss">未映射</span></td><td class="l" style="white-space:normal">硬质合金·钨深加工·刀</td></tr><tr><td class="l"><span class="tag wk">weak</span></td><td class="l"><b>603306</b></td><td class="l">华懋科技</td><td class="l"><span class="old">08-21</span></td><td>-1.63</td><td class="fitg">8.30</td><td>75.8</td><td>3.00</td><td>+342</td><td class="l etf-cell"><span class="etf-miss">未映射</span></td><td class="l" style="white-space:normal">汽车安全气囊布/丝+新</td></tr><tr><td class="l"><span class="tag wk">weak</span></td><td class="l"><b>002487</b></td><td class="l">大金重工</td><td class="l"><span class="old">08-21</span></td><td>-8.32</td><td class="fitg">7.96</td><td>57.1</td><td>2.30</td><td>+466</td><td class="l etf-cell"><span class="etf-miss">未映射</span></td><td class="l" style="white-space:normal">风电塔筒·海工出海</td></tr><tr><td class="l"><span class="tag wk">weak</span></td><td class="l"><b>603083</b></td><td class="l">剑桥科技</td><td class="l"><span class="old">08-21</span></td><td>-2.69</td><td class="fitg">5.36</td><td>61.3</td><td>3.88</td><td>+437</td><td class="l etf-cell"><a href="etf.html#AIQ"><b>AIQ</b></a><small>5日 -2.7% · 21日 +7.5% · 63日 -0.8% · 近似代理 · 弱势 / 回撤中</small><br><a href="etf.html#SMH"><b>SMH</b></a><small>5日 -8.0% · 21日 -2.6% · 63日 -5.1% · 近似代理 · 弱势 / 回撤中</small></td><td class="l" style="white-space:normal">光模块/AEC·800</td></tr><tr><td class="l"><span class="tag wk">weak</span></td><td class="l"><b>688027</b></td><td class="l">国盾量子</td><td class="l"><span class="old">08-21</span></td><td>-3.64</td><td class="fitg">5.00</td><td>58.6</td><td>2.64</td><td>+403</td><td class="l etf-cell"><a href="etf.html#QTUM"><b>QTUM</b></a><small>5日 -7.1% · 21日 +5.3% · 63日 -4.1% · 直接主题 · 弱势 / 回撤中</small></td><td class="l" style="white-space:normal">量子通信·量子计算·量</td></tr><tr><td class="l"><span class="tag wk">weak</span></td><td class="l"><b>600183</b></td><td class="l">生益科技</td><td class="l"><span class="old">08-21</span></td><td>-5.52</td><td class="fitg">4.54</td><td>66.7</td><td>3.25</td><td>+202</td><td class="l etf-cell"><span class="etf-miss">未映射</span></td><td class="l" style="white-space:normal">覆铜板(CCL)全球龙</td></tr><tr><td class="l"><span class="tag wk">weak</span></td><td class="l"><b>603026</b></td><td class="l">胜华新材</td><td class="l"><span class="old">08-21</span></td><td>-2.10</td><td class="fitg">4.09</td><td>46.2</td><td>2.58</td><td>+248</td><td class="l etf-cell"><a href="etf.html#LIT"><b>LIT</b></a><small>5日 +1.0% · 21日 +13.6% · 63日 -9.3% · 直接主题 · 转强 / 近20日高</small></td><td class="l" style="white-space:normal">锂电材料·电解液溶剂(</td></tr><tr><td class="l"><span class="tag wk">weak</span></td><td class="l"><b>002709</b></td><td class="l">天赐材料</td><td class="l"><span class="old">08-21</span></td><td>-0.34</td><td>3.69</td><td>61.9</td><td>2.58</td><td>+187</td><td class="l etf-cell"><a href="etf.html#LIT"><b>LIT</b></a><small>5日 +1.0% · 21日 +13.6% · 63日 -9.3% · 直接主题 · 转强 / 近20日高</small></td><td class="l" style="white-space:normal">电解液·六氟磷酸锂·锂</td></tr><tr><td class="l"><span class="tag wk">weak</span></td><td class="l"><b>300502</b></td><td class="l">新易盛</td><td class="l"><span class="old">08-21</span></td><td>-6.87</td><td>3.59</td><td>58.8</td><td>3.79</td><td>+336</td><td class="l etf-cell"><a href="etf.html#AIQ"><b>AIQ</b></a><small>5日 -2.7% · 21日 +7.5% · 63日 -0.8% · 近似代理 · 弱势 / 回撤中</small><br><a href="etf.html#SMH"><b>SMH</b></a><small>5日 -8.0% · 21日 -2.6% · 63日 -5.1% · 近似代理 · 弱势 / 回撤中</small></td><td class="l" style="white-space:normal">光模块龙头·800G/</td></tr><tr><td class="l"><span class="tag wk">weak</span></td><td class="l"><b>002156</b></td><td class="l">通富微电</td><td class="l"><span class="old">08-21</span></td><td>-4.34</td><td>1.54</td><td>46.9</td><td>2.82</td><td>+66</td><td class="l etf-cell"><a href="etf.html#SMH"><b>SMH</b></a><small>5日 -8.0% · 21日 -2.6% · 63日 -5.1% · 主题代理 · 弱势 / 回撤中</small><br><a href="etf.html#AIQ"><b>AIQ</b></a><small>5日 -2.7% · 21日 +7.5% · 63日 -0.8% · 主题代理 · 弱势 / 回撤中</small></td><td class="l" style="white-space:normal">半导体封测·AMD/先</td></tr><tr><td class="l"><span class="tag wk">weak</span></td><td class="l"><b>002428</b></td><td class="l">云南锗业</td><td class="l"><span class="old">08-20</span></td><td>-5.59</td><td class="fitg">17.78</td><td>75.0</td><td>3.52</td><td>+1087</td><td class="l etf-cell"><span class="etf-miss">未映射</span></td><td class="l" style="white-space:normal">锗金属·磷化铟衬底·化</td></tr><tr><td class="l"><span class="tag wk">weak</span></td><td class="l"><b>603738</b></td><td class="l">泰晶科技</td><td class="l"><span class="old">08-20</span></td><td>-4.98</td><td class="fitg">6.62</td><td>54.2</td><td>2.69</td><td>+278</td><td class="l etf-cell"><span class="etf-miss">未映射</span></td><td class="l" style="white-space:normal">石英晶振·频率器件·被</td></tr><tr><td class="l"><span class="tag wk">weak</span></td><td class="l"><b>688313</b></td><td class="l">仕佳光子</td><td class="l"><span class="old">08-20</span></td><td>-3.13</td><td class="fitg">6.08</td><td>55.2</td><td>4.47</td><td>+464</td><td class="l etf-cell"><span class="etf-miss">未映射</span></td><td class="l" style="white-space:normal">光芯片·AWG·AI数</td></tr><tr><td class="l"><span class="tag wk">weak</span></td><td class="l"><b>300620</b></td><td class="l">光库科技</td><td class="l"><span class="old">08-20</span></td><td>-2.56</td><td class="fitg">5.22</td><td>54.5</td><td>4.08</td><td>+521</td><td class="l etf-cell"><span class="etf-miss">未映射</span></td><td class="l" style="white-space:normal">光纤器件+铌酸锂调制器</td></tr></table></div><h1 style="margin-top:14px;font-size:14px">全清单 · 明细图 强+弱（23）</h1><div class="blk"><pre><b>NASDAQ:603667</b> 五洲新春 · 轴承·滚珠丝杠·人形机
 信号日 08-21 · Fit 6.82 · 胜率 67.6% · CA 2.94% · Pnls +635% · 当日 -0.15% · <a href="https://www.tradingview.com/chart/?symbol=NASDAQ%3A603667" target="_blank">TV↗</a>
 主题ETF：<span class="etf-miss">未映射</span></pre><img loading="lazy" src="bogo_cn/1050/603667.png"></div><div class="blk"><pre><b>NASDAQ:605117</b> 德业股份 · 户用/工商储逆变器+储
 信号日 08-21 · Fit 5.05 · 胜率 63.4% · CA 2.30% · Pnls +367% · 当日 -1.53% · <a href="https://www.tradingview.com/chart/?symbol=NASDAQ%3A605117" target="_blank">TV↗</a>

diff --git a/us_monitor/m13_bogo.py b/us_monitor/m13_bogo.py
@@ -111,6 +111,11 @@ def _num(s, default=None):
         return default
 
 
+def _image_codes(rows) -> set[str]:
+    """Return every signal code so strong and weak rows keep their detail image."""
+    return {r["代码"] for r in rows if r.get("代码")}
+
+
 def load() -> dict:
     """优先解析本地最新 PDF; 没有(如云端)则读上次落盘的快照"""
     pdf = find_pdf()
@@ -120,10 +125,8 @@ def load() -> dict:
             if d["rows"]:
                 try:
                     from .m6_dashboard import OUT_DIR
-                    # 只导当日强信号的原图（全导 34 张 6MB, 且弱信号/旧日期用处不大）
-                    days3 = sorted({r["信号日"] for r in d["rows"]}, reverse=True)[:3]
-                    want = {r["代码"] for r in d["rows"]
-                            if r["信号"] == "strong" and r["信号日"] in days3}
+                    # 公开页展示强弱全清单；同名 PNG 会复用，不重复渲染。
+                    want = _image_codes(d["rows"])
                     d["images"] = export_pages(pdf, OUT_DIR / "bogo", only=want)
                 except Exception as exc:
                     print(f"WARN: 导出波哥单页图失败 {exc}", file=sys.stderr)

diff --git a/us_monitor/m15_bogo_cn.py b/us_monitor/m15_bogo_cn.py
@@ -5,7 +5,7 @@
 复用 m13_bogo 的 parse/export_pages（deck 第一页版式与 us 完全一致）。
 数据源: 归档目录里的 `MMDD ch 1050|ch 1520|ai 1600 bo sig.pdf`。
 解析结果落 .bogo_cn_signals.json（云端无 PDF 时回退显示上次快照）。
-输出: OUT_DIR/bogo_cn.html + OUT_DIR/bogo_cn/{1050,1520,1600}/<代码>.png（仅近3日强信号原图）。
+输出: OUT_DIR/bogo_cn.html + OUT_DIR/bogo_cn/{1050,1520,1600}/<代码>.png（强弱全清单原图）。
 与 bogo.html(美股页) 同风格，页顶互跳链接。无任何私人引用。
 """
 import html as H
@@ -73,7 +73,7 @@ def _find_pdf(pattern):
 
 
 def load() -> dict:
-    """逐批: 最新PDF → parse → 近3日强信号导原图。无PDF(云端)回退快照。"""
+    """逐批: 最新PDF → parse → 强弱全清单导原图。无PDF(云端)回退快照。"""
     from .m6_dashboard import OUT_DIR
     out = {}
     fresh = False

diff --git a/tests/test_m15_bogo_cn.py b/tests/test_m15_bogo_cn.py
@@ -20,6 +20,20 @@ class BogoPdfRowClusteringTests(unittest.TestCase):
         )
 
 
+class BogoImageSelectionTests(unittest.TestCase):
+    def test_us_detail_images_include_strong_and_weak_signals(self):
+        rows = [
+            {"代码": "STRONG", "信号": "strong", "信号日": "08-24"},
+            {"代码": "WEAK", "信号": "weak", "信号日": "08-24"},
+            {"代码": "OLDER", "信号": "weak", "信号日": "08-20"},
+        ]
+
+        self.assertEqual(
+            {"STRONG", "WEAK", "OLDER"},
+            m13_bogo._image_codes(rows),
+        )
+
+
 class BogoFreshnessTests(unittest.TestCase):
     def test_us_batch_compares_source_to_singapore_date(self):
         ci_utc = datetime(2026, 8, 14, 21, 55, tzinfo=timezone.utc)
